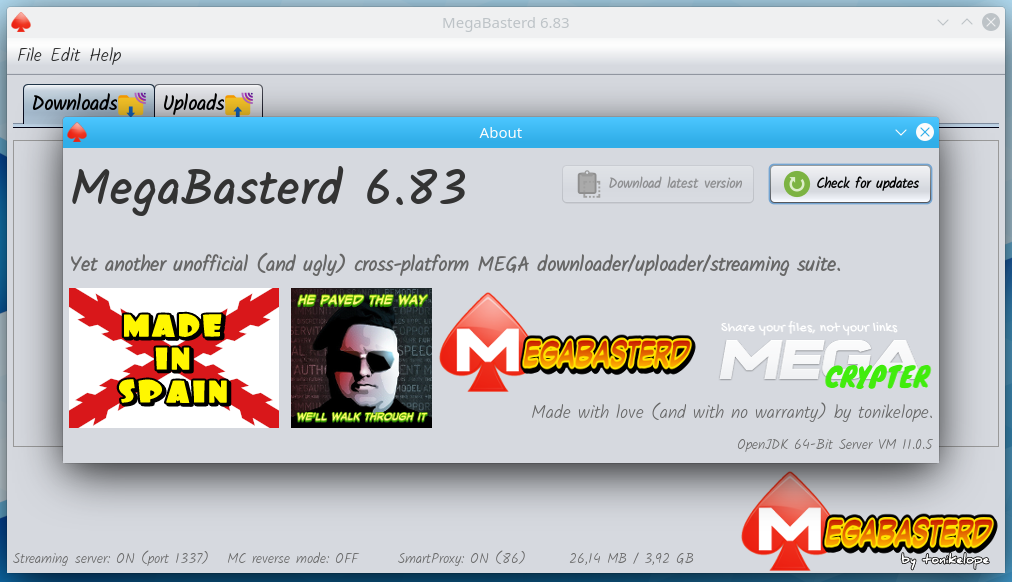
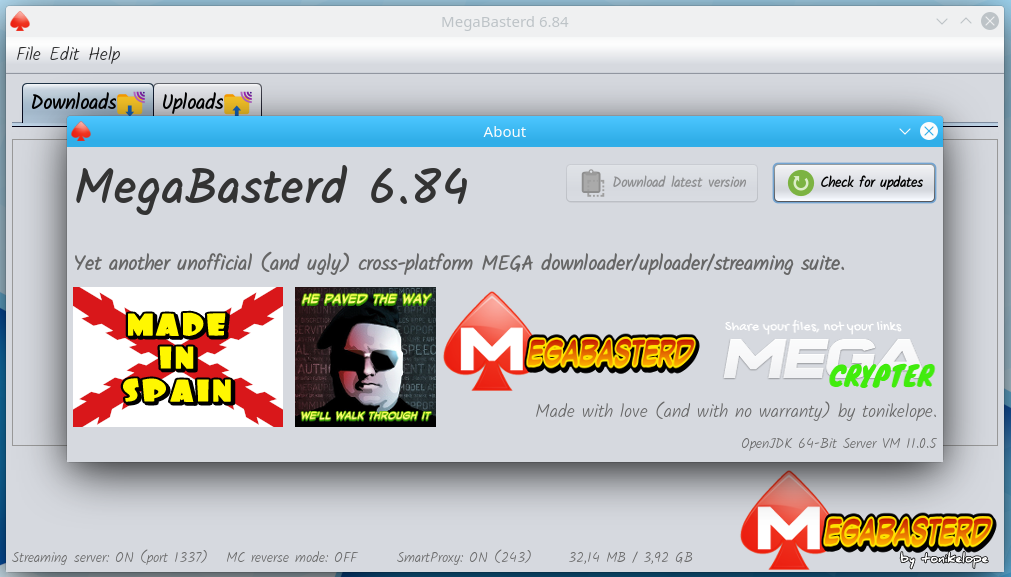
6.84
TOP/BOTTOM BUTTONS

(cherry picked from commit faf74fa529709141bbf887c5c5c486987d114e64)

diff --git a/src/main/java/com/tonikelope/megabasterd/UploadView.java b/src/main/java/com/tonikelope/megabasterd/UploadView.java
@@ -144,6 +144,8 @@ public class UploadView extends javax.swing.JPanel implements TransferenceView {
         queue_up_button = new javax.swing.JButton();
         queue_down_button = new javax.swing.JButton();
         cbc_label = new javax.swing.JLabel();
+        queue_top_button = new javax.swing.JButton();
+        queue_bottom_button = new javax.swing.JButton();
 
         setBorder(new javax.swing.border.LineBorder(new java.awt.Color(153, 204, 255), 3, true));
 
@@ -269,6 +271,24 @@ public class UploadView extends javax.swing.JPanel implements TransferenceView {
         cbc_label.setText("CBC-MAC 000%");
         cbc_label.setDoubleBuffered(true);
 
+        queue_top_button.setFont(new java.awt.Font("Dialog", 1, 14)); // NOI18N
+        queue_top_button.setIcon(new javax.swing.ImageIcon(getClass().getResource("/images/arriba_1.png"))); // NOI18N
+        queue_top_button.setText("TOP");
+        queue_top_button.addActionListener(new java.awt.event.ActionListener() {
+            public void actionPerformed(java.awt.event.ActionEvent evt) {
+                queue_top_buttonActionPerformed(evt);
+            }
+        });
+
+        queue_bottom_button.setFont(new java.awt.Font("Dialog", 1, 14)); // NOI18N
+        queue_bottom_button.setIcon(new javax.swing.ImageIcon(getClass().getResource("/images/abajo_1.png"))); // NOI18N
+        queue_bottom_button.setText("BOTTOM");
+        queue_bottom_button.addActionListener(new java.awt.event.ActionListener() {
+            public void actionPerformed(java.awt.event.ActionEvent evt) {
+                queue_bottom_buttonActionPerformed(evt);
+            }
+        });
+
         javax.swing.GroupLayout layout = new javax.swing.GroupLayout(this);
         this.setLayout(layout);
         layout.setHorizontalGroup(
@@ -300,15 +320,19 @@ public class UploadView extends javax.swing.JPanel implements TransferenceView {
                     .addGroup(javax.swing.GroupLayout.Alignment.TRAILING, layout.createSequentialGroup()
                         .addGroup(layout.createParallelGroup(javax.swing.GroupLayout.Alignment.LEADING)
                             .addGroup(layout.createSequentialGroup()
-                                .addComponent(queue_up_button, javax.swing.GroupLayout.PREFERRED_SIZE, 43, javax.swing.GroupLayout.PREFERRED_SIZE)
+                                .addComponent(queue_top_button)
+                                .addPreferredGap(javax.swing.LayoutStyle.ComponentPlacement.UNRELATED)
+                                .addComponent(queue_up_button, javax.swing.GroupLayout.PREFERRED_SIZE, 42, javax.swing.GroupLayout.PREFERRED_SIZE)
                                 .addPreferredGap(javax.swing.LayoutStyle.ComponentPlacement.UNRELATED)
                                 .addComponent(queue_down_button, javax.swing.GroupLayout.PREFERRED_SIZE, 42, javax.swing.GroupLayout.PREFERRED_SIZE)
-                                .addGap(231, 231, 231))
+                                .addPreferredGap(javax.swing.LayoutStyle.ComponentPlacement.UNRELATED)
+                                .addComponent(queue_bottom_button)
+                                .addGap(0, 0, Short.MAX_VALUE))
                             .addGroup(layout.createSequentialGroup()
                                 .addComponent(status_label, javax.swing.GroupLayout.DEFAULT_SIZE, 446, Short.MAX_VALUE)
                                 .addGap(18, 18, 18)
-                                .addComponent(cbc_label)
-                                .addGap(18, 18, 18)))
+                                .addComponent(cbc_label)))
+                        .addGap(18, 18, 18)
                         .addComponent(slots_label)
                         .addPreferredGap(javax.swing.LayoutStyle.ComponentPlacement.RELATED)
                         .addComponent(slots_spinner, javax.swing.GroupLayout.PREFERRED_SIZE, 70, javax.swing.GroupLayout.PREFERRED_SIZE)))
@@ -319,8 +343,11 @@ public class UploadView extends javax.swing.JPanel implements TransferenceView {
             .addGroup(layout.createSequentialGroup()
                 .addContainerGap()
                 .addGroup(layout.createParallelGroup(javax.swing.GroupLayout.Alignment.LEADING, false)
+                    .addComponent(queue_up_button, javax.swing.GroupLayout.DEFAULT_SIZE, javax.swing.GroupLayout.DEFAULT_SIZE, Short.MAX_VALUE)
+                    .addComponent(queue_top_button, javax.swing.GroupLayout.DEFAULT_SIZE, javax.swing.GroupLayout.DEFAULT_SIZE, Short.MAX_VALUE)
                     .addComponent(queue_down_button, javax.swing.GroupLayout.DEFAULT_SIZE, javax.swing.GroupLayout.DEFAULT_SIZE, Short.MAX_VALUE)
-                    .addComponent(queue_up_button, javax.swing.GroupLayout.PREFERRED_SIZE, 39, javax.swing.GroupLayout.PREFERRED_SIZE))
+                    .addComponent(queue_bottom_button, javax.swing.GroupLayout.DEFAULT_SIZE, javax.swing.GroupLayout.DEFAULT_SIZE, Short.MAX_VALUE))
+                .addPreferredGap(javax.swing.LayoutStyle.ComponentPlacement.RELATED)
                 .addGroup(layout.createParallelGroup(javax.swing.GroupLayout.Alignment.BASELINE)
                     .addComponent(slots_spinner, javax.swing.GroupLayout.PREFERRED_SIZE, 32, javax.swing.GroupLayout.PREFERRED_SIZE)
                     .addComponent(slots_label)
@@ -447,6 +474,31 @@ public class UploadView extends javax.swing.JPanel implements TransferenceView {
             });
         });
     }//GEN-LAST:event_queue_down_buttonActionPerformed
+
+    private void queue_top_buttonActionPerformed(java.awt.event.ActionEvent evt) {//GEN-FIRST:event_queue_top_buttonActionPerformed
+        // TODO add your handling code here:
+        queue_top_button.setEnabled(false);
+
+        THREAD_POOL.execute(() -> {
+            _upload.topWaitQueue();
+            swingInvoke(() -> {
+                queue_top_button.setEnabled(true);
+            });
+        });
+
+    }//GEN-LAST:event_queue_top_buttonActionPerformed
+
+    private void queue_bottom_buttonActionPerformed(java.awt.event.ActionEvent evt) {//GEN-FIRST:event_queue_bottom_buttonActionPerformed
+        // TODO add your handling code here:
+        queue_bottom_button.setEnabled(false);
+
+        THREAD_POOL.execute(() -> {
+            _upload.bottomWaitQueue();
+            swingInvoke(() -> {
+                queue_bottom_button.setEnabled(true);
+            });
+        });
+    }//GEN-LAST:event_queue_bottom_buttonActionPerformed
 
     public void updateCBC(String status) {
 
@@ -595,7 +647,9 @@ public class UploadView extends javax.swing.JPanel implements TransferenceView {
     private javax.swing.JButton folder_link_button;
     private javax.swing.JButton pause_button;
     private javax.swing.JProgressBar progress_pbar;
+    private javax.swing.JButton queue_bottom_button;
     private javax.swing.JButton queue_down_button;
+    private javax.swing.JButton queue_top_button;
     private javax.swing.JButton queue_up_button;
     private javax.swing.JButton restart_button;
     private javax.swing.JLabel slot_status_label;

diff --git a/src/main/java/com/tonikelope/megabasterd/DownloadView.java b/src/main/java/com/tonikelope/megabasterd/DownloadView.java
@@ -162,6 +162,8 @@ public class DownloadView extends javax.swing.JPanel implements TransferenceView
         slot_status_label = new javax.swing.JLabel();
         queue_up_button = new javax.swing.JButton();
         queue_down_button = new javax.swing.JButton();
+        queue_top_button = new javax.swing.JButton();
+        queue_bottom_button = new javax.swing.JButton();
 
         setBorder(new javax.swing.border.LineBorder(new java.awt.Color(153, 204, 255), 3, true));
 
@@ -288,6 +290,24 @@ public class DownloadView extends javax.swing.JPanel implements TransferenceView
             }
         });
 
+        queue_top_button.setFont(new java.awt.Font("Dialog", 1, 14)); // NOI18N
+        queue_top_button.setIcon(new javax.swing.ImageIcon(getClass().getResource("/images/arriba_1.png"))); // NOI18N
+        queue_top_button.setText("TOP");
+        queue_top_button.addActionListener(new java.awt.event.ActionListener() {
+            public void actionPerformed(java.awt.event.ActionEvent evt) {
+                queue_top_buttonActionPerformed(evt);
+            }
+        });
+
+        queue_bottom_button.setFont(new java.awt.Font("Dialog", 1, 14)); // NOI18N
+        queue_bottom_button.setIcon(new javax.swing.ImageIcon(getClass().getResource("/images/abajo_1.png"))); // NOI18N
+        queue_bottom_button.setText("BOTTOM");
+        queue_bottom_button.addActionListener(new java.awt.event.ActionListener() {
+            public void actionPerformed(java.awt.event.ActionEvent evt) {
+                queue_bottom_buttonActionPerformed(evt);
+            }
+        });
+
         javax.swing.GroupLayout layout = new javax.swing.GroupLayout(this);
         this.setLayout(layout);
         layout.setHorizontalGroup(
@@ -303,9 +323,13 @@ public class DownloadView extends javax.swing.JPanel implements TransferenceView
                                 .addPreferredGap(javax.swing.LayoutStyle.ComponentPlacement.RELATED)
                                 .addComponent(slots_label))
                             .addGroup(layout.createSequentialGroup()
-                                .addComponent(queue_up_button, javax.swing.GroupLayout.PREFERRED_SIZE, 43, javax.swing.GroupLayout.PREFERRED_SIZE)
+                                .addComponent(queue_top_button)
+                                .addPreferredGap(javax.swing.LayoutStyle.ComponentPlacement.UNRELATED)
+                                .addComponent(queue_up_button, javax.swing.GroupLayout.PREFERRED_SIZE, 42, javax.swing.GroupLayout.PREFERRED_SIZE)
                                 .addPreferredGap(javax.swing.LayoutStyle.ComponentPlacement.UNRELATED)
                                 .addComponent(queue_down_button, javax.swing.GroupLayout.PREFERRED_SIZE, 42, javax.swing.GroupLayout.PREFERRED_SIZE)
+                                .addPreferredGap(javax.swing.LayoutStyle.ComponentPlacement.UNRELATED)
+                                .addComponent(queue_bottom_button)
                                 .addGap(0, 0, Short.MAX_VALUE)))
                         .addPreferredGap(javax.swing.LayoutStyle.ComponentPlacement.RELATED)
                         .addComponent(slots_spinner, javax.swing.GroupLayout.PREFERRED_SIZE, 70, javax.swing.GroupLayout.PREFERRED_SIZE))
@@ -338,9 +362,11 @@ public class DownloadView extends javax.swing.JPanel implements TransferenceView
             .addGroup(layout.createSequentialGroup()
                 .addContainerGap()
                 .addGroup(layout.createParallelGroup(javax.swing.GroupLayout.Alignment.LEADING, false)
-                    .addComponent(queue_down_button, javax.swing.GroupLayout.DEFAULT_SIZE, 39, Short.MAX_VALUE)
-                    .addComponent(queue_up_button, javax.swing.GroupLayout.DEFAULT_SIZE, javax.swing.GroupLayout.DEFAULT_SIZE, Short.MAX_VALUE))
-                .addGap(0, 0, 0)
+                    .addComponent(queue_down_button, javax.swing.GroupLayout.DEFAULT_SIZE, javax.swing.GroupLayout.DEFAULT_SIZE, Short.MAX_VALUE)
+                    .addComponent(queue_up_button, javax.swing.GroupLayout.DEFAULT_SIZE, javax.swing.GroupLayout.DEFAULT_SIZE, Short.MAX_VALUE)
+                    .addComponent(queue_top_button, javax.swing.GroupLayout.DEFAULT_SIZE, javax.swing.GroupLayout.DEFAULT_SIZE, Short.MAX_VALUE)
+                    .addComponent(queue_bottom_button, javax.swing.GroupLayout.DEFAULT_SIZE, javax.swing.GroupLayout.DEFAULT_SIZE, Short.MAX_VALUE))
+                .addPreferredGap(javax.swing.LayoutStyle.ComponentPlacement.RELATED)
                 .addGroup(layout.createParallelGroup(javax.swing.GroupLayout.Alignment.BASELINE)
                     .addComponent(slots_spinner, javax.swing.GroupLayout.PREFERRED_SIZE, 32, javax.swing.GroupLayout.PREFERRED_SIZE)
                     .addComponent(slots_label)
@@ -447,6 +473,32 @@ public class DownloadView extends javax.swing.JPanel implements TransferenceView
             });
         });
     }//GEN-LAST:event_queue_down_buttonActionPerformed
+
+    private void queue_top_buttonActionPerformed(java.awt.event.ActionEvent evt) {//GEN-FIRST:event_queue_top_buttonActionPerformed
+        // TODO add your handling code here:
+
+        queue_top_button.setEnabled(false);
+
+        THREAD_POOL.execute(() -> {
+            _download.topWaitQueue();
+            swingInvoke(() -> {
+                queue_top_button.setEnabled(true);
+            });
+        });
+
+    }//GEN-LAST:event_queue_top_buttonActionPerformed
+
+    private void queue_bottom_buttonActionPerformed(java.awt.event.ActionEvent evt) {//GEN-FIRST:event_queue_bottom_buttonActionPerformed
+        // TODO add your handling code here:
+        queue_bottom_button.setEnabled(false);
+
+        THREAD_POOL.execute(() -> {
+            _download.bottomWaitQueue();
+            swingInvoke(() -> {
+                queue_bottom_button.setEnabled(true);
+            });
+        });
+    }//GEN-LAST:event_queue_bottom_buttonActionPerformed
 
     @Override
     public void pause() {
@@ -596,7 +648,9 @@ public class DownloadView extends javax.swing.JPanel implements TransferenceView
     private javax.swing.JButton open_folder_button;
     private javax.swing.JButton pause_button;
     private javax.swing.JProgressBar progress_pbar;
+    private javax.swing.JButton queue_bottom_button;
     private javax.swing.JButton queue_down_button;
+    private javax.swing.JButton queue_top_button;
     private javax.swing.JButton queue_up_button;
     private javax.swing.JButton restart_button;
     private javax.swing.JLabel slot_status_label;

diff --git a/src/main/java/com/tonikelope/megabasterd/TransferenceManager.java b/src/main/java/com/tonikelope/megabasterd/TransferenceManager.java
@@ -285,6 +285,83 @@ abstract public class TransferenceManager implements Runnable, SecureSingleThrea
         secureNotify();
     }
 
+    public void topWaitQueue(Transference t) {
+
+        synchronized (getWait_queue_lock()) {
+
+            ArrayList<Transference> wait_array = new ArrayList();
+
+            wait_array.add(t);
+
+            for (Transference t1 : getTransference_waitstart_queue()) {
+
+                if (t1 != t) {
+                    wait_array.add(t1);
+                }
+            }
+
+            getTransference_waitstart_queue().clear();
+
+            getTransference_waitstart_queue().addAll(wait_array);
+
+            getTransference_waitstart_queue().forEach((t1) -> {
+                swingInvoke(() -> {
+                    getScroll_panel().remove((Component) t1.getView());
+                    getScroll_panel().add((Component) t1.getView());
+                });
+            });
+            getTransference_finished_queue().forEach((t1) -> {
+                swingInvoke(() -> {
+                    getScroll_panel().remove((Component) t1.getView());
+                    getScroll_panel().add((Component) t1.getView());
+                });
+            });
+
+            _frozen = false;
+        }
+
+        secureNotify();
+    }
+
+    public void bottomWaitQueue(Transference t) {
+
+        synchronized (getWait_queue_lock()) {
+
+            ArrayList<Transference> wait_array = new ArrayList();
+
+            for (Transference t1 : getTransference_waitstart_queue()) {
+
+                if (t1 != t) {
+                    wait_array.add(t1);
+                }
+            }
+
+            wait_array.add(t);
+
+            getTransference_waitstart_queue().clear();
+
+            getTransference_waitstart_queue().addAll(wait_array);
+
+            getTransference_waitstart_queue().forEach((t1) -> {
+                swingInvoke(() -> {
+                    getScroll_panel().remove((Component) t1.getView());
+                    getScroll_panel().add((Component) t1.getView());
+                });
+            });
+            getTransference_finished_queue().forEach((t1) -> {
+                swingInvoke(() -> {
+                    getScroll_panel().remove((Component) t1.getView());
+                    getScroll_panel().add((Component) t1.getView());
+                });
+            });
+
+            _frozen = false;
+        }
+
+        secureNotify();
+
+    }
+
     public void upWaitQueue(Transference t) {
 
         synchronized (getWait_queue_lock()) {

diff --git a/src/main/java/com/tonikelope/megabasterd/Upload.java b/src/main/java/com/tonikelope/megabasterd/Upload.java
@@ -1187,6 +1187,16 @@ public class Upload implements Transference, Runnable, SecureSingleThreadNotifia
     }
 
     @Override
+    public void bottomWaitQueue() {
+        _main_panel.getUpload_manager().bottomWaitQueue(this);
+    }
+
+    @Override
+    public void topWaitQueue() {
+        _main_panel.getUpload_manager().topWaitQueue(this);
+    }
+
+    @Override
     public int getSlotsCount() {
         return getChunkworkers().size();
     }

diff --git a/src/main/java/com/tonikelope/megabasterd/Download.java b/src/main/java/com/tonikelope/megabasterd/Download.java
@@ -1666,6 +1666,16 @@ public class Download implements Transference, Runnable, SecureSingleThreadNotif
     }
 
     @Override
+    public void bottomWaitQueue() {
+        _main_panel.getDownload_manager().bottomWaitQueue(this);
+    }
+
+    @Override
+    public void topWaitQueue() {
+        _main_panel.getDownload_manager().topWaitQueue(this);
+    }
+
+    @Override
     public boolean isRestart() {
         return _restart;
     }

diff --git a/src/main/java/com/tonikelope/megabasterd/MainPanel.java b/src/main/java/com/tonikelope/megabasterd/MainPanel.java
@@ -53,7 +53,7 @@ import javax.swing.UIManager;
  */
 public final class MainPanel {
 
-    public static final String VERSION = "6.83";
+    public static final String VERSION = "6.84";
     public static final int THROTTLE_SLICE_SIZE = 16 * 1024;
     public static final int DEFAULT_BYTE_BUFFER_SIZE = 16 * 1024;
     public static final int STREAMER_PORT = 1337;

diff --git a/src/main/java/com/tonikelope/megabasterd/Transference.java b/src/main/java/com/tonikelope/megabasterd/Transference.java
@@ -46,6 +46,10 @@ public interface Transference {
 
     void downWaitQueue();
 
+    void bottomWaitQueue();
+
+    void topWaitQueue();
+
     void checkSlotsAndWorkers();
 
     ConcurrentLinkedQueue<Long> getPartialProgress();
